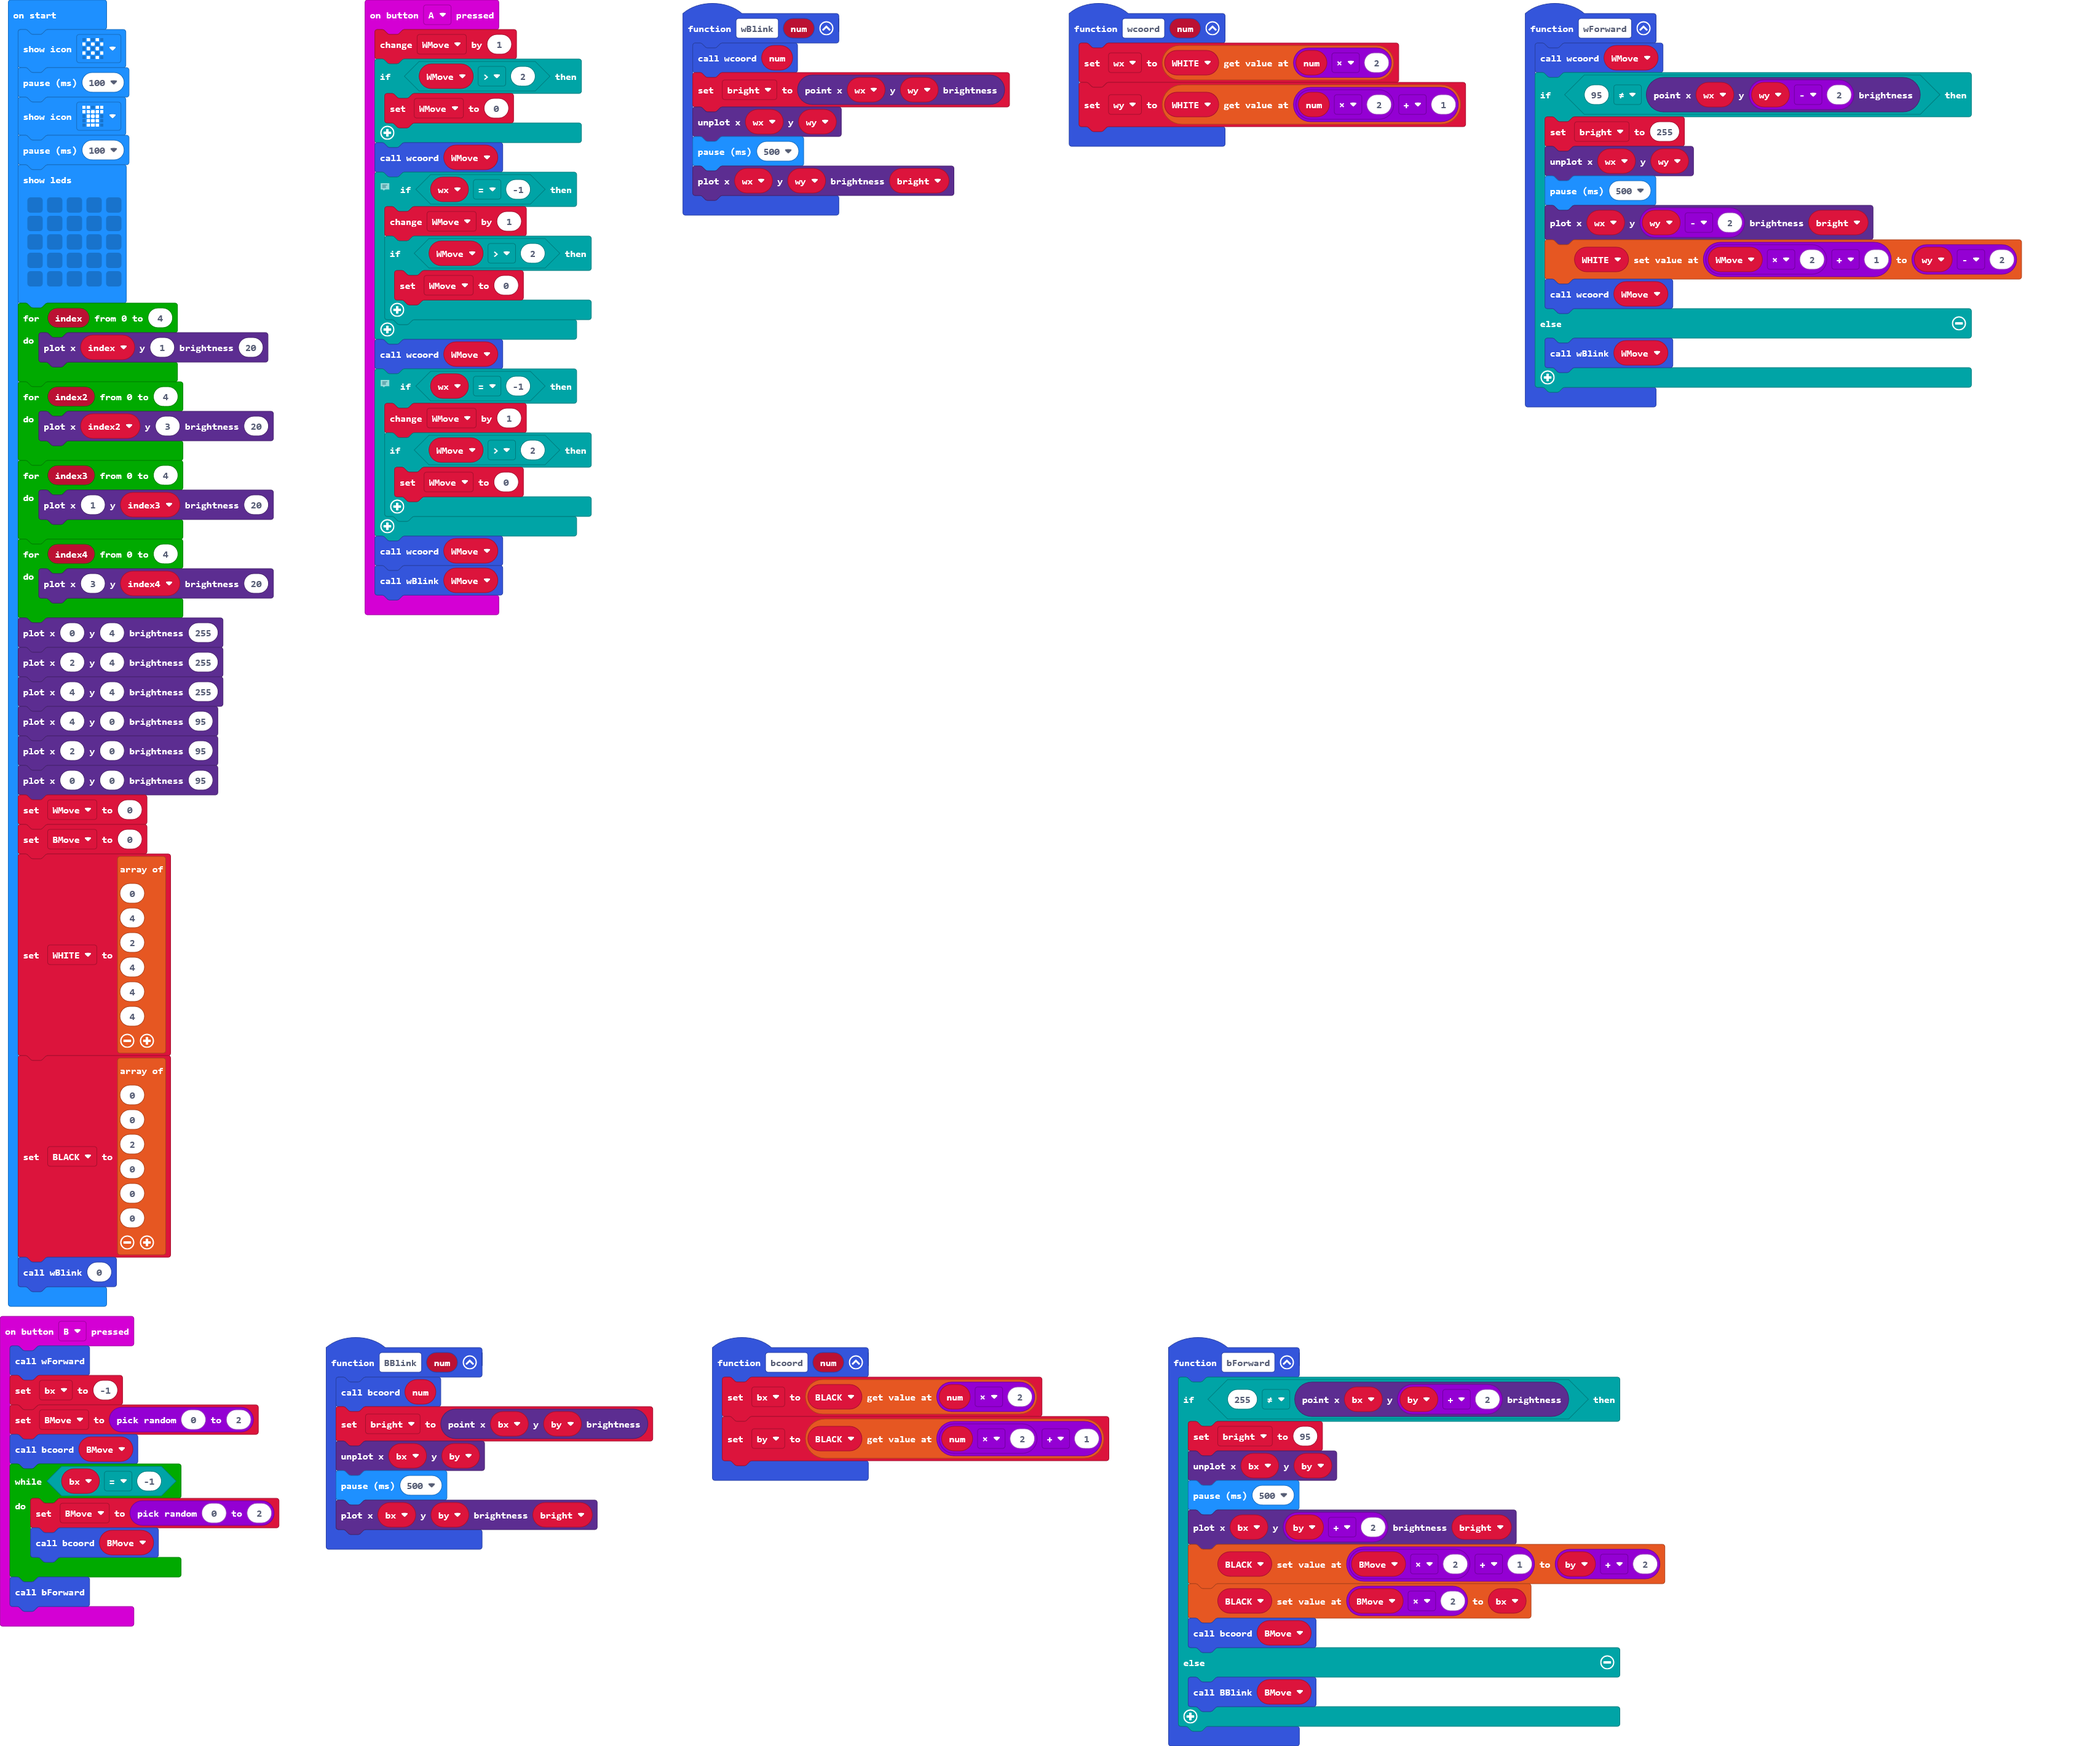
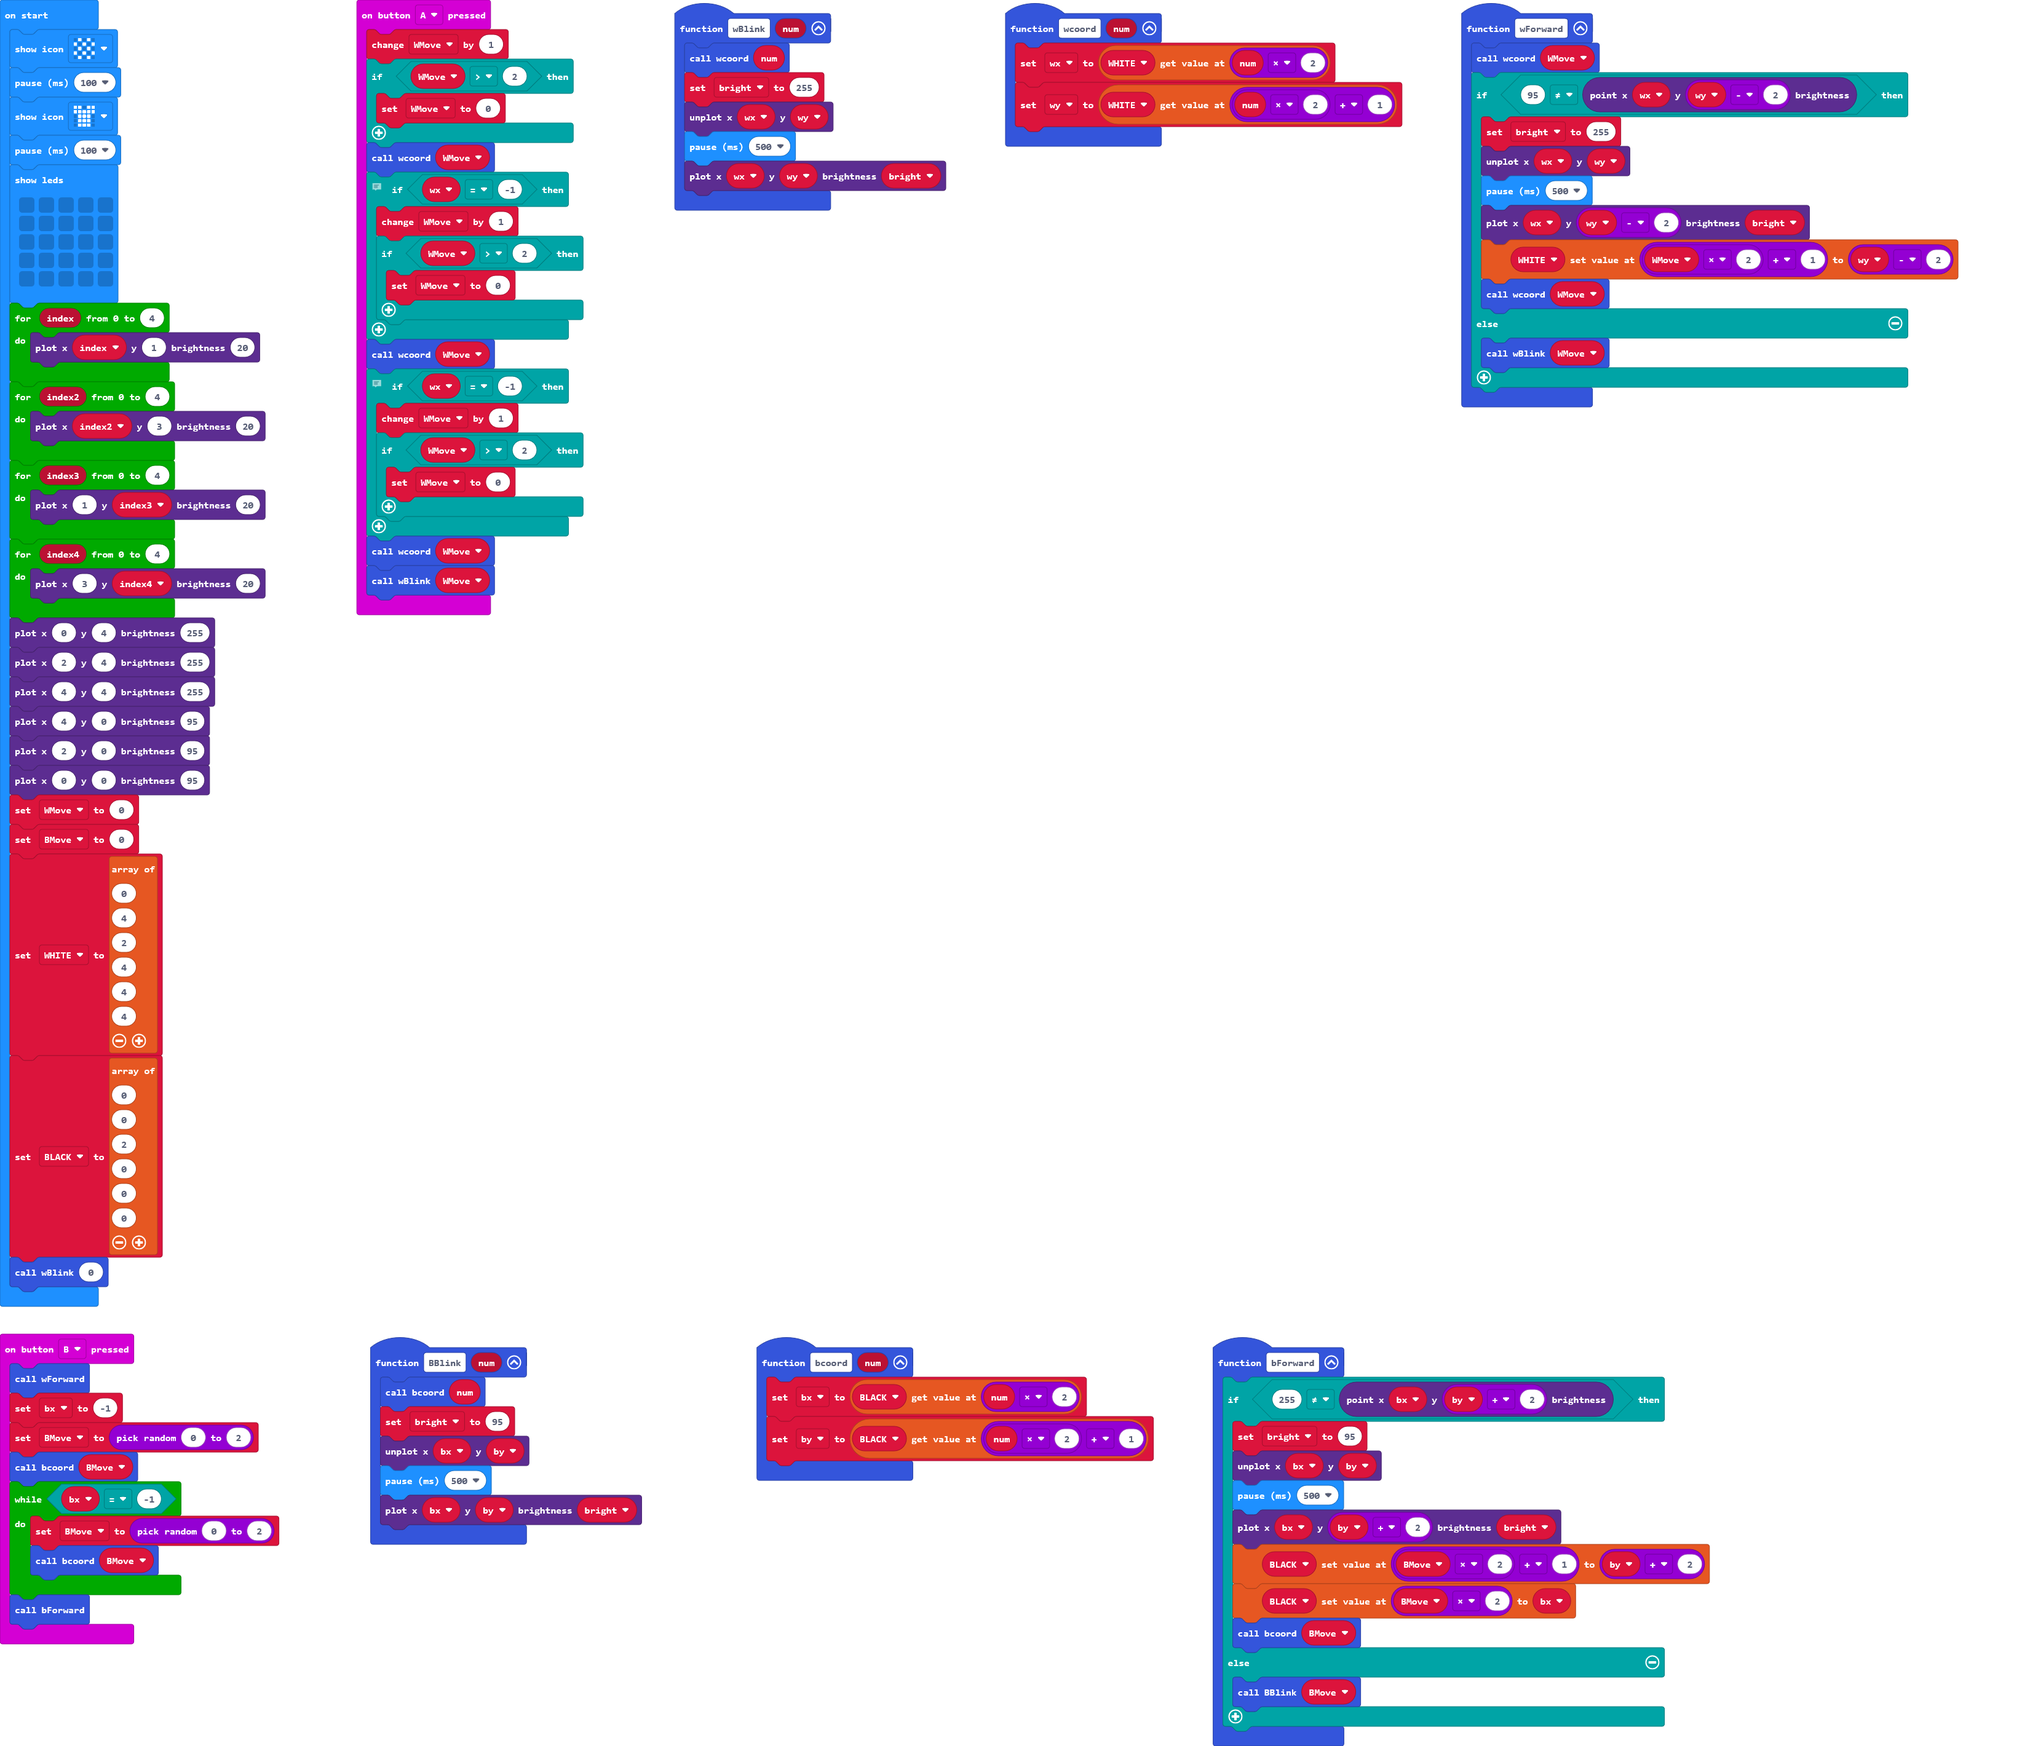
Update main.blocks, main.ts

diff --git a/main.ts b/main.ts
@@ -39,7 +39,7 @@ input.onButtonPressed(Button.A, function () {
 })
 function BBlink (num: number) {
     bcoord(num)
-    bright = led.pointBrightness(bx, by)
+    bright = 95
     led.unplot(bx, by)
     basic.pause(500)
     led.plotBrightness(bx, by, bright)
@@ -78,7 +78,7 @@ function bForward () {
 }
 function wBlink (num: number) {
     wcoord(num)
-    bright = led.pointBrightness(wx, wy)
+    bright = 255
     led.unplot(wx, wy)
     basic.pause(500)
     led.plotBrightness(wx, wy, bright)
